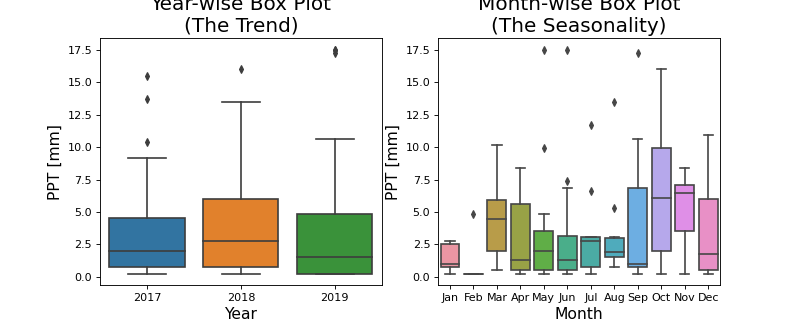
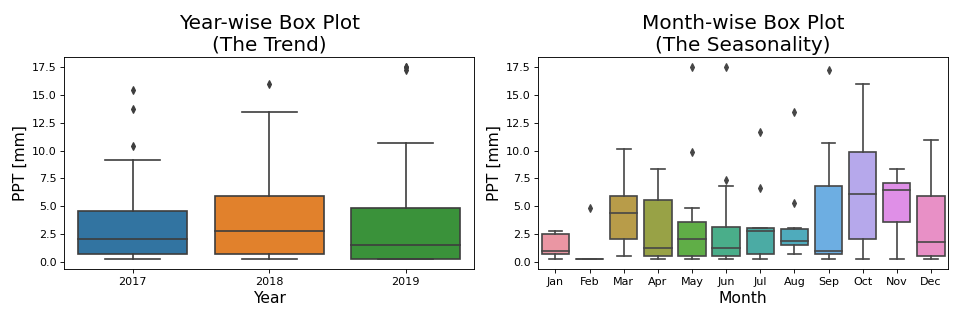
Loess added

diff --git a/Scripts/TimeSeriesAnalysis.py b/Scripts/TimeSeriesAnalysis.py
@@ -10,6 +10,7 @@ from statsmodels.tsa.seasonal import seasonal_decompose
 from dateutil.parser import parse
 from statsmodels.tsa.stattools import adfuller, kpss
 from pandas.plotting import autocorrelation_plot
+from statsmodels.nonparametric.smoothers_lowess import lowess
 
 # Import data as Dataframe
 df = pd.read_csv('../PPT_data/PPT_data.csv')
@@ -45,7 +46,7 @@ def plot_df( x, y, title="", xlabel='Date', ylabel='PPT', dpi=100):
 
 
 # Use The defined function to visualize a PPT time series
-plot_df(x=df['Date'], y=df["PPT[mm]"], title='Daily precepitation [mm].')
+plot_df(x=df['Date'], y=df["PPT[mm]"], title='Daily precepitation [mm]')
 
 #Define a boolean to remove zero values
 bool=df["PPT[mm]"]==0
@@ -59,7 +60,7 @@ df['month'] = [d.strftime('%b') for d in df["Date"]]
 years = df['year'].unique()
 
 # Draw Plot
-fig, axes = plt.subplots(1, 2, figsize=(10,4), dpi= 80)
+fig, axes = plt.subplots(1, 2, figsize=(12,4), dpi= 80)
 sns.boxplot(x='year', y='PPT[mm]', data=df, ax=axes[0])
 sns.boxplot(x='month', y='PPT[mm]', data=df.loc[~df.year.isin([2017, 2020]), :])
 
@@ -73,6 +74,7 @@ axes[0].set_ylabel("PPT [mm]", fontsize=14)
 axes[0].set_xlabel("Year", fontsize=14)
 axes[1].set_ylabel("PPT [mm]", fontsize=14)
 axes[1].set_xlabel("Month", fontsize=14)
+plt.tight_layout()
 plt.savefig('../Results/PPT_Boxplots.png')
 plt.close()
 
@@ -151,9 +153,15 @@ for key, value in result[3].items():
     print('Critial Values:')
     print(f'   {key}, {value}')
 
-#seasonality test of a time series
+#Smoothen time searies
+# Loess Smoothing (5% and 15%)
+df_loess_5 = pd.DataFrame(lowess(df["PPT[mm]"], np.arange(len(df["PPT[mm]"])), frac=0.05)[:, 1], index=df.index, columns=["PPT[mm]"])
+df_loess_15 = pd.DataFrame(lowess(df["PPT[mm]"], np.arange(len(df["PPT[mm]"])), frac=0.15)[:, 1], index=df.index, columns=['PPT[mm]'])
 
-# Draw Plot
-plt.rcParams.update({'figure.figsize':(12,2), 'figure.dpi':120})
-autocorrelation_plot(df["PPT[mm]"].tolist())
-plt.savefig('../Results/autocorrelation.png')
+# Plot
+fig, axes = plt.subplots(3,1, figsize=(7, 7), sharex=True, dpi=120)
+df['PPT[mm]'].plot(ax=axes[0], color='k', title='Original Series')
+df_loess_5['PPT[mm]'].plot(ax=axes[1], title='Loess Smoothed 5%')
+df_loess_15['PPT[mm]'].plot(ax=axes[2], title='Loess Smoothed 15%')
+fig.suptitle('How to Smoothen a Time Series', y=0.95, fontsize=14)
+plt.savefig('../Results/PPT_Loess.png')
